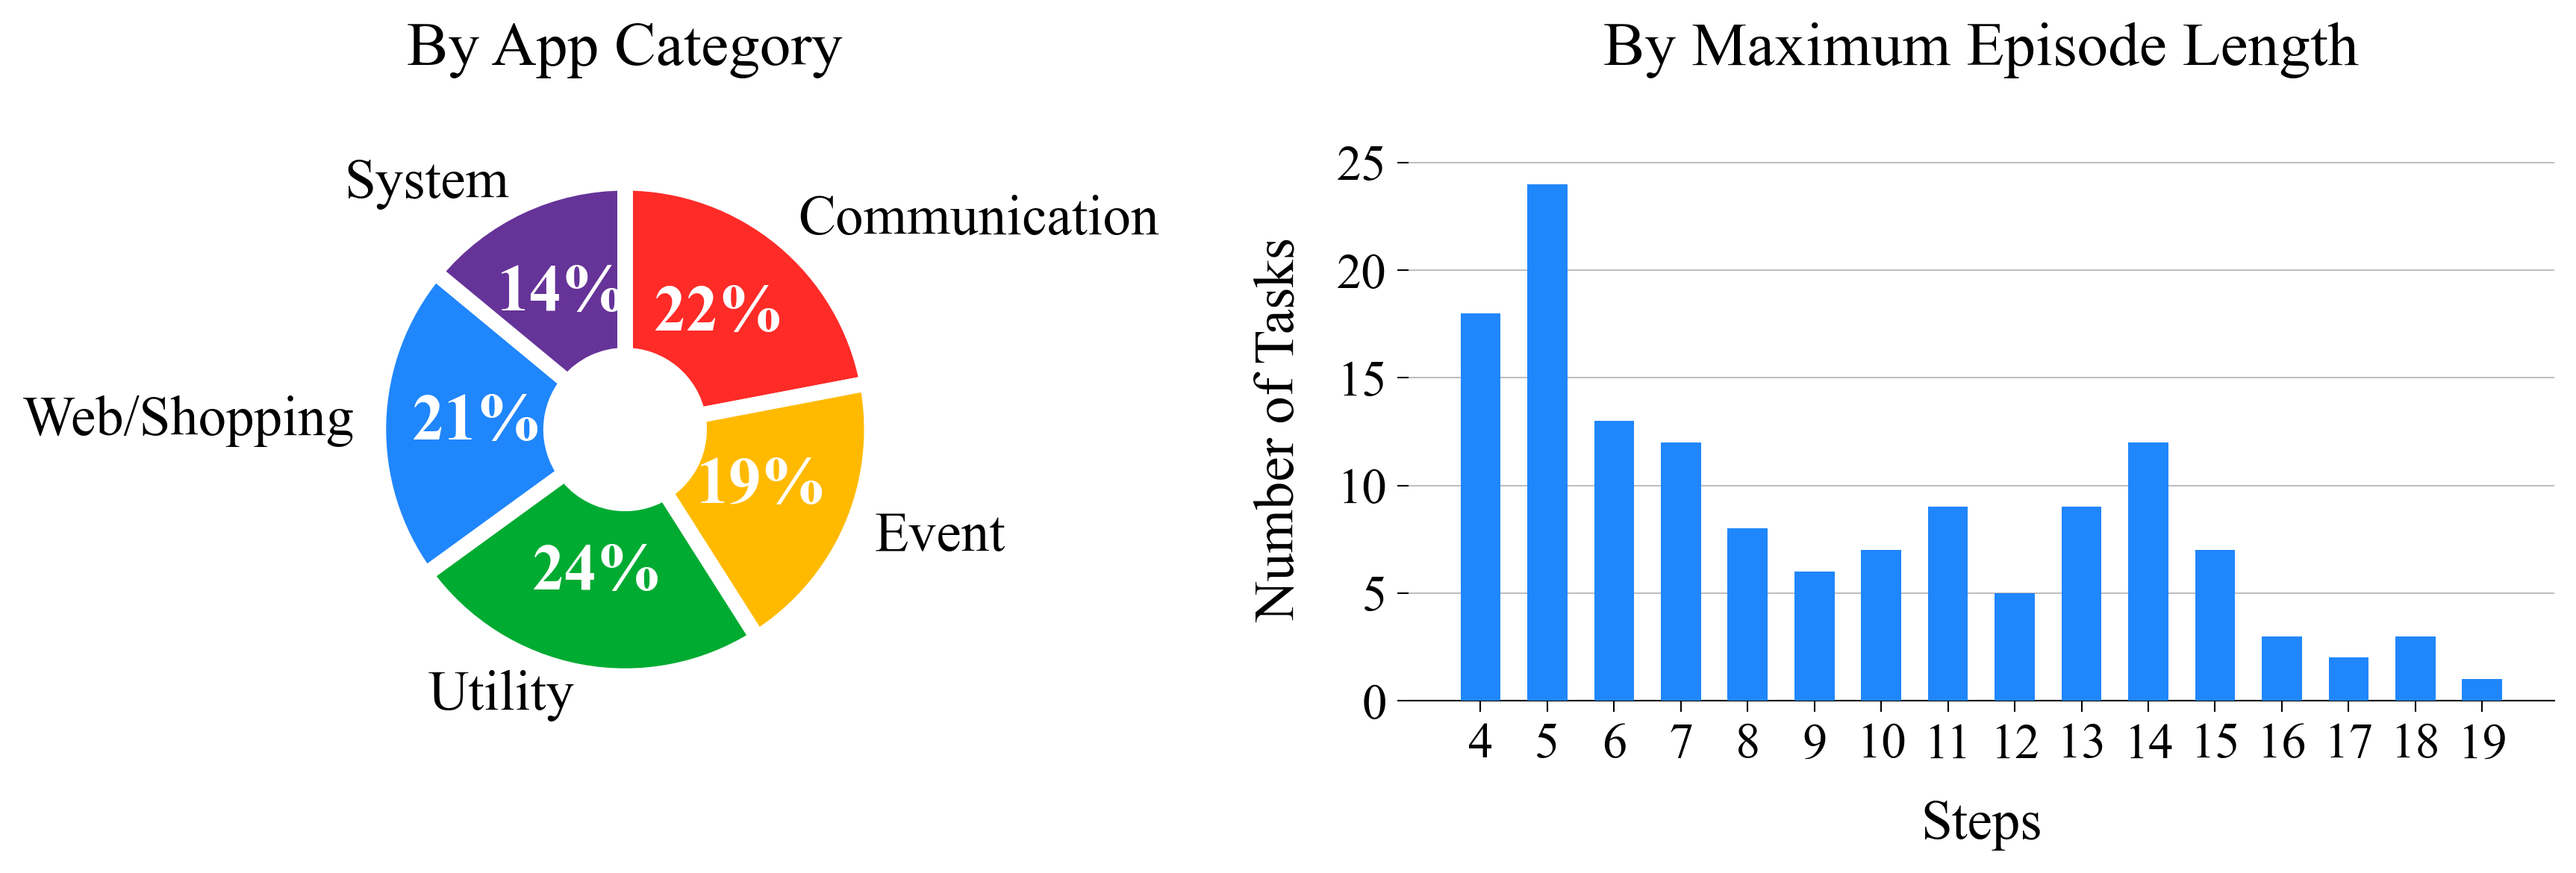
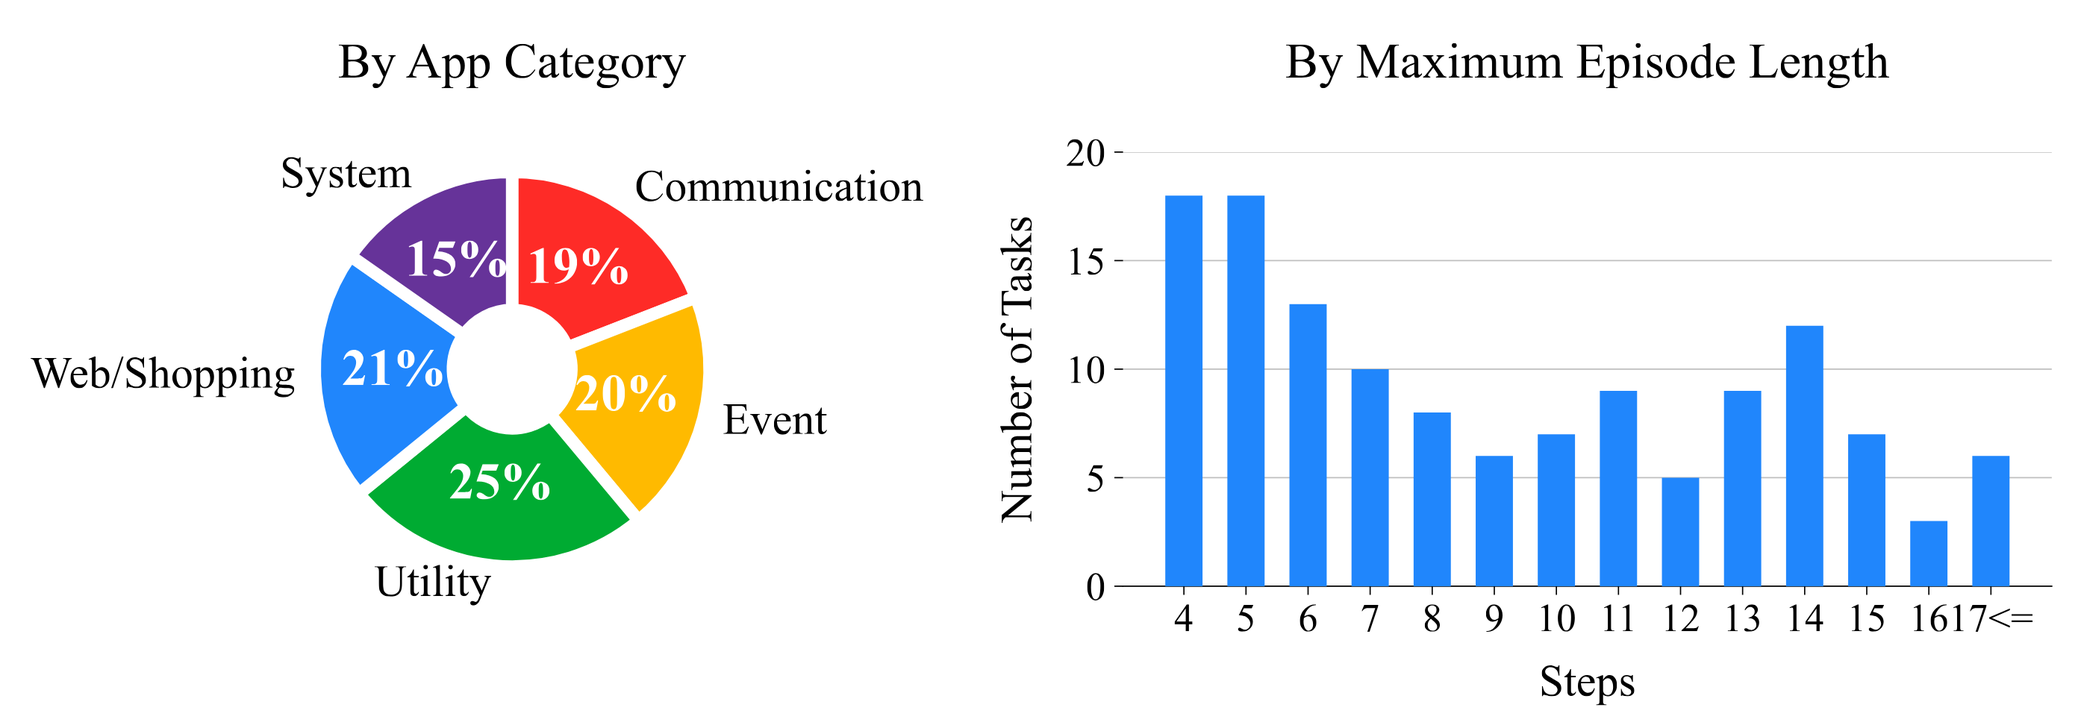
update

diff --git a/index.html b/index.html
@@ -79,7 +79,7 @@
                 <a href="" target="_blank">Haeone Lee</a><sup>1</sup>
               </span>
               <span class="author-block">
-                <a href="https://changyeon.page/" target="_blank">Changyoen Kim</a><sup>1</sup>
+                <a href="https://changyeon.page/" target="_blank">Changyeon Kim</a><sup>1</sup>
               </span>
               <span class="author-block">
                 <a href="https://sites.google.com/view/kiminlee" target="_blank">Kimin Lee</a><sup>1</sup>
@@ -95,20 +95,20 @@
             <div class="column has-text-centered">
               <div class="publication-links">
               <span class="link-block">
-                <a href="https://arxiv.org/abs/2404.16660" target="_blank"
+                <a href="https://arxiv.org/abs/2404.16660/v2" target="_blank"
                 class="external-link button is-normal is-rounded is-dark">
                 <span class="icon">
                   <i class="ai ai-arxiv"></i>
                 </span>
-                <span>Paper (ver.1)</span>
+                <span>Paper (ver.2)</span>
               </a>
             </span>
 
             <!-- Github link -->
             <span class="link-block">
-              <a href="https://github.com/gimme1dollar/b-moca/tree/release/ver.2.4.2" target="_blank" class="external-link button is-normal is-rounded is-dark">
+              <a href="https://github.com/gimme1dollar/b-moca/tree/release/ver.2.5" target="_blank" class="external-link button is-normal is-rounded is-dark">
                 <span class="icon"><i class="fab fa-github"></i></span>
-                <span>Code (ver.2.4)</span>
+                <span>Code (ver.2.5)</span>
               </a>
             </span>
 
@@ -134,6 +134,11 @@
         <span class="negative-br"></span>
         [Release Notes]
         </h2>
+        <strong>(ver.2.5)</strong> 
+        We removed 8 daily tasks (total 131 tasks), due to high stochasticity during evaluation.
+        The paper (ver.2) is updated.
+        <br>
+        <span class="small-br"></span>
         <strong>(ver.2.4)</strong> 
         We added 39 more daily tasks (total 138 tasks, as removing a task).
         We show <a href="#result_div"><u>the success rates of representative agents (GPT-4o and Gemini-1.5-pro) on 138 tasks</u></a> and the success rates of all baseline agents (GPT-4o, Gemini-1.5-pro, Llama-3, and custom agents) on six challenging representative tasks below.
@@ -212,21 +217,16 @@
         <h2 class="title is-3">Abstract</h2>
         <div class="content has-text-justified">
           <p>
-            Developing autonomous agents for mobile devices can significantly enhance user 
-            interactions by offering increased efficiency and accessibility. However, 
-            despite the growing interest in mobile device control agents, the absence 
-            of a commonly adopted benchmark makes it challenging to quantify scientific 
-            progress in this area. In this work, we introduce B-MoCA: a novel benchmark 
-            designed specifically for evaluating mobile device control agents. To create 
-            a realistic benchmark, we develop B-MoCA based on the Android operating system 
-            and define 60 common daily tasks. Importantly, we incorporate a randomization 
-            feature that changes various aspects of mobile devices, including user interface 
-            layouts and language settings, to assess generalization performance. We benchmark 
-            diverse agents, including agents employing large language models (LLMs) or 
-            multi-modal LLMs as well as agents trained from scratch using human expert 
-            demonstrations. While these agents demonstrate proficiency in executing 
-            straightforward tasks, their poor performance on complex tasks highlights 
-            significant opportunities for future research to enhance their effectiveness.
+            Mobile device control agents can largely enhance user interactions and productivity by automating daily tasks. 
+            However, despite growing interest in developing practical agents, 
+            the absence of a commonly adopted benchmark in this area makes it challenging to quantify scientific progress. 
+            In this work, we introduce B-MoCA: a novel benchmark with interactive environments for evaluating and developing mobile device control agents. 
+            To create a realistic benchmark, we develop B-MoCA based on the Android operating system and define 131 common daily tasks. 
+            Importantly, we incorporate a randomization feature that changes the configurations of mobile devices, 
+            including user interface layouts and language settings, to assess generalization performance. 
+            We benchmark diverse agents, including agents employing large language models (LLMs) or multi-modal LLMs as well as agents trained with imitation learning using human expert demonstrations. 
+            While these agents demonstrate proficiency in executing straightforward tasks, 
+            their poor performance on complex tasks highlights significant opportunities for future research to improve effectiveness. 
           </p>
         </div>
       </div>
@@ -246,30 +246,6 @@
 </section>
 <!-- Intro section -->
 
-
-<!-- Demonstrations section >
-<section class="hero is-small">
-  <div class="hero-body">
-    <div class="container">
-      <div class="title-color">
-          <h2 class="title" style="text-align: center; color: white;"> Practical Daily Tasks in B-MoCA </h2>
-      </div>
-
-      <md-block>
-        B-MoCA includes 60 tasks essential for managing digital devices, providing functionalities useful in daily routines 
-        such as setting the alarm or enabling airplane mode. These daily tasks are grounded to realistic scenarios and 
-        effectively simulate a wide range of essential skills for mobile device control problems, such as navigating 
-        multiple pages in the target application or manipulating UI elements (e.g., application icons, checkboxes, and sliders). 
-      </md-block>
-
-    </div>
-  </div>
-</div>
-</div>
-</section>
-< End demonstration section -->
-
-
 <!-- Task section -->
 <section class="hero is-small">
   <div class="hero-body">
@@ -281,7 +257,7 @@
   
       <md-block>
         <br>
-        B-MoCA presents 138 daily tasks that are grounded in realistic situations.
+        B-MoCA presents 131 daily tasks that are grounded in realistic situations.
         The tasks span 10+ applications, including the thrid-party app (e.g., Instagram).
         These require the agent fundamental skills for controlling mobile devices, 
         including navigation over the multiple pages and manipulating various UI elements.
@@ -355,30 +331,30 @@
   <div class="container" id="result_div">
     <md-block>
       <br>
-      First, we show the proficiency of agents using state-of-the-art closed-source LLMs (i.e., GPT-4o and Gemini-1.5-pro in zero-shot) on 138 tasks. 
-      The agents are evaluated on three test environments we configure: a vanilla environment with all target applications in the home screen (named, "Plain"), an environment with icons in the home screen and size setting randomized (named, "Random 1"), and an environment with icons in the home screen, size, wallpaper, and language setting randomized (named, "Random 2").
+      First, we show the proficiency of agents using state-of-the-art closed-source LLMs (i.e., GPT-4o and Gemini-1.5-pro in zero-shot) on 131 tasks. 
+      The agents are evaluated on three test environments we configure: a vanilla environment with all target applications in the home screen (Test Env 100), an environment with icons in the home screen and size setting randomized (Test Env 101), and an environment with icons in the home screen, size, wallpaper, and language setting randomized (Test Env 105).
       The different success rates among environments reveal the unique challenge of B-MoCA in assessing the generalization ability of mobile device control agents.
     </md-block>
   </div>
 
   <div class="hero-body">
-    <img src="static/images/results/138_tasks.png" alt="MY ALT TEXT"
+    <img src="static/images/results/main-1.png" alt="MY ALT TEXT"
       style="display: block; margin: 0 auto; width: 60%; height: auto;"
       />
   </div>
 
   <div class="container" id="result_div">
     <md-block>
-      Moreover, we benchmark state-of-the-art closed-source/open-source LLMs (GPT-4o, Gemini-1.5-pro, and Llama3 in few-shot) and MLLMs (GPT-4o, Gemini-1.5-pro in few-shot) as well as custom agents trained from scratch on six challenging representative tasks. 
-      <!-- The instructions for six representative tasks are "create alarm at 10:30 am" (named, "Alarm(simple)"), "create alarm at 10:30 am on every weekday" (named, "Alarm(complex)"), "go to 'add a language' page in setting" (named, "Language"), "input 'cos(180)' in Calculator" (named, "Calculator"), "call the white house (202-456-1111)" (named, "Call"), and "disable the top 2 and 'randomizer' topics at feed customize setting on Wikipedia and go back to the feed" (named, "Wikipedia"). -->
+      Moreover, we benchmark state-of-the-art closed-source/open-source LLMs (GPT-4o, Gemini-1.5-pro, and Llama3 in few-shot) 
+      and MLLMs (GPT-4o, Gemini-1.5-pro in few-shot) 
+      as well as custom agents using fine-tuned LLMs (Llama-3) and VLM encoder on six challenging representative tasks. 
       The agents are evaluated on all 10 test environments we configure.
       The lack of proficiencies of these agents in complex scenarios calls for future work.
-      For more details, please refer to the paper (which will be updated soon).
     </md-block>
   </div>
 
   <div class="hero-body">
-    <img src="static/images/results/6_tasks.png" alt="MY ALT TEXT"
+    <img src="static/images/results/main-2.png" alt="MY ALT TEXT"
       style="display: block; margin: 0 auto; width: 60%; height: auto;"
     />
   </div>
@@ -390,16 +366,15 @@
 <section class="section" id="BibTeX">
   <div class="container is-max-desktop content">
     <h2 class="title">BibTeX</h2>
-    <pre><code>@inproceedings{lee2024benchmarking,
-      title={Benchmarking Mobile Device Control Agents Across Diverse Configurations}, 
-      author={Juyong Lee and Taywon Min and Minyong An and Dongyoon Hahm and Haeone Lee and Changyeon Kim and Kimin Lee},
-      year={2024},
-      booktitle={ICLR 2024 Workshop on Generative Models for Decision Making},
+    <pre><code>@article{lee2024benchmarking,
+  title={Benchmarking Mobile Device Control Agents Across Diverse Configurations}, 
+  author={Lee, Juyong and Min, Taywon and An, Minyong and Hahm, Dongyoon and Lee, Haeone and Kim, Changyeon and Lee, Kimin},
+  journal={arXiv preprint arXiv:2404.16660},
+  year={2024},
 }</code></pre>
   </div>
 </section>
 <!--End BibTex citation -->
-
 
   <footer class="footer">
   <div class="container">
